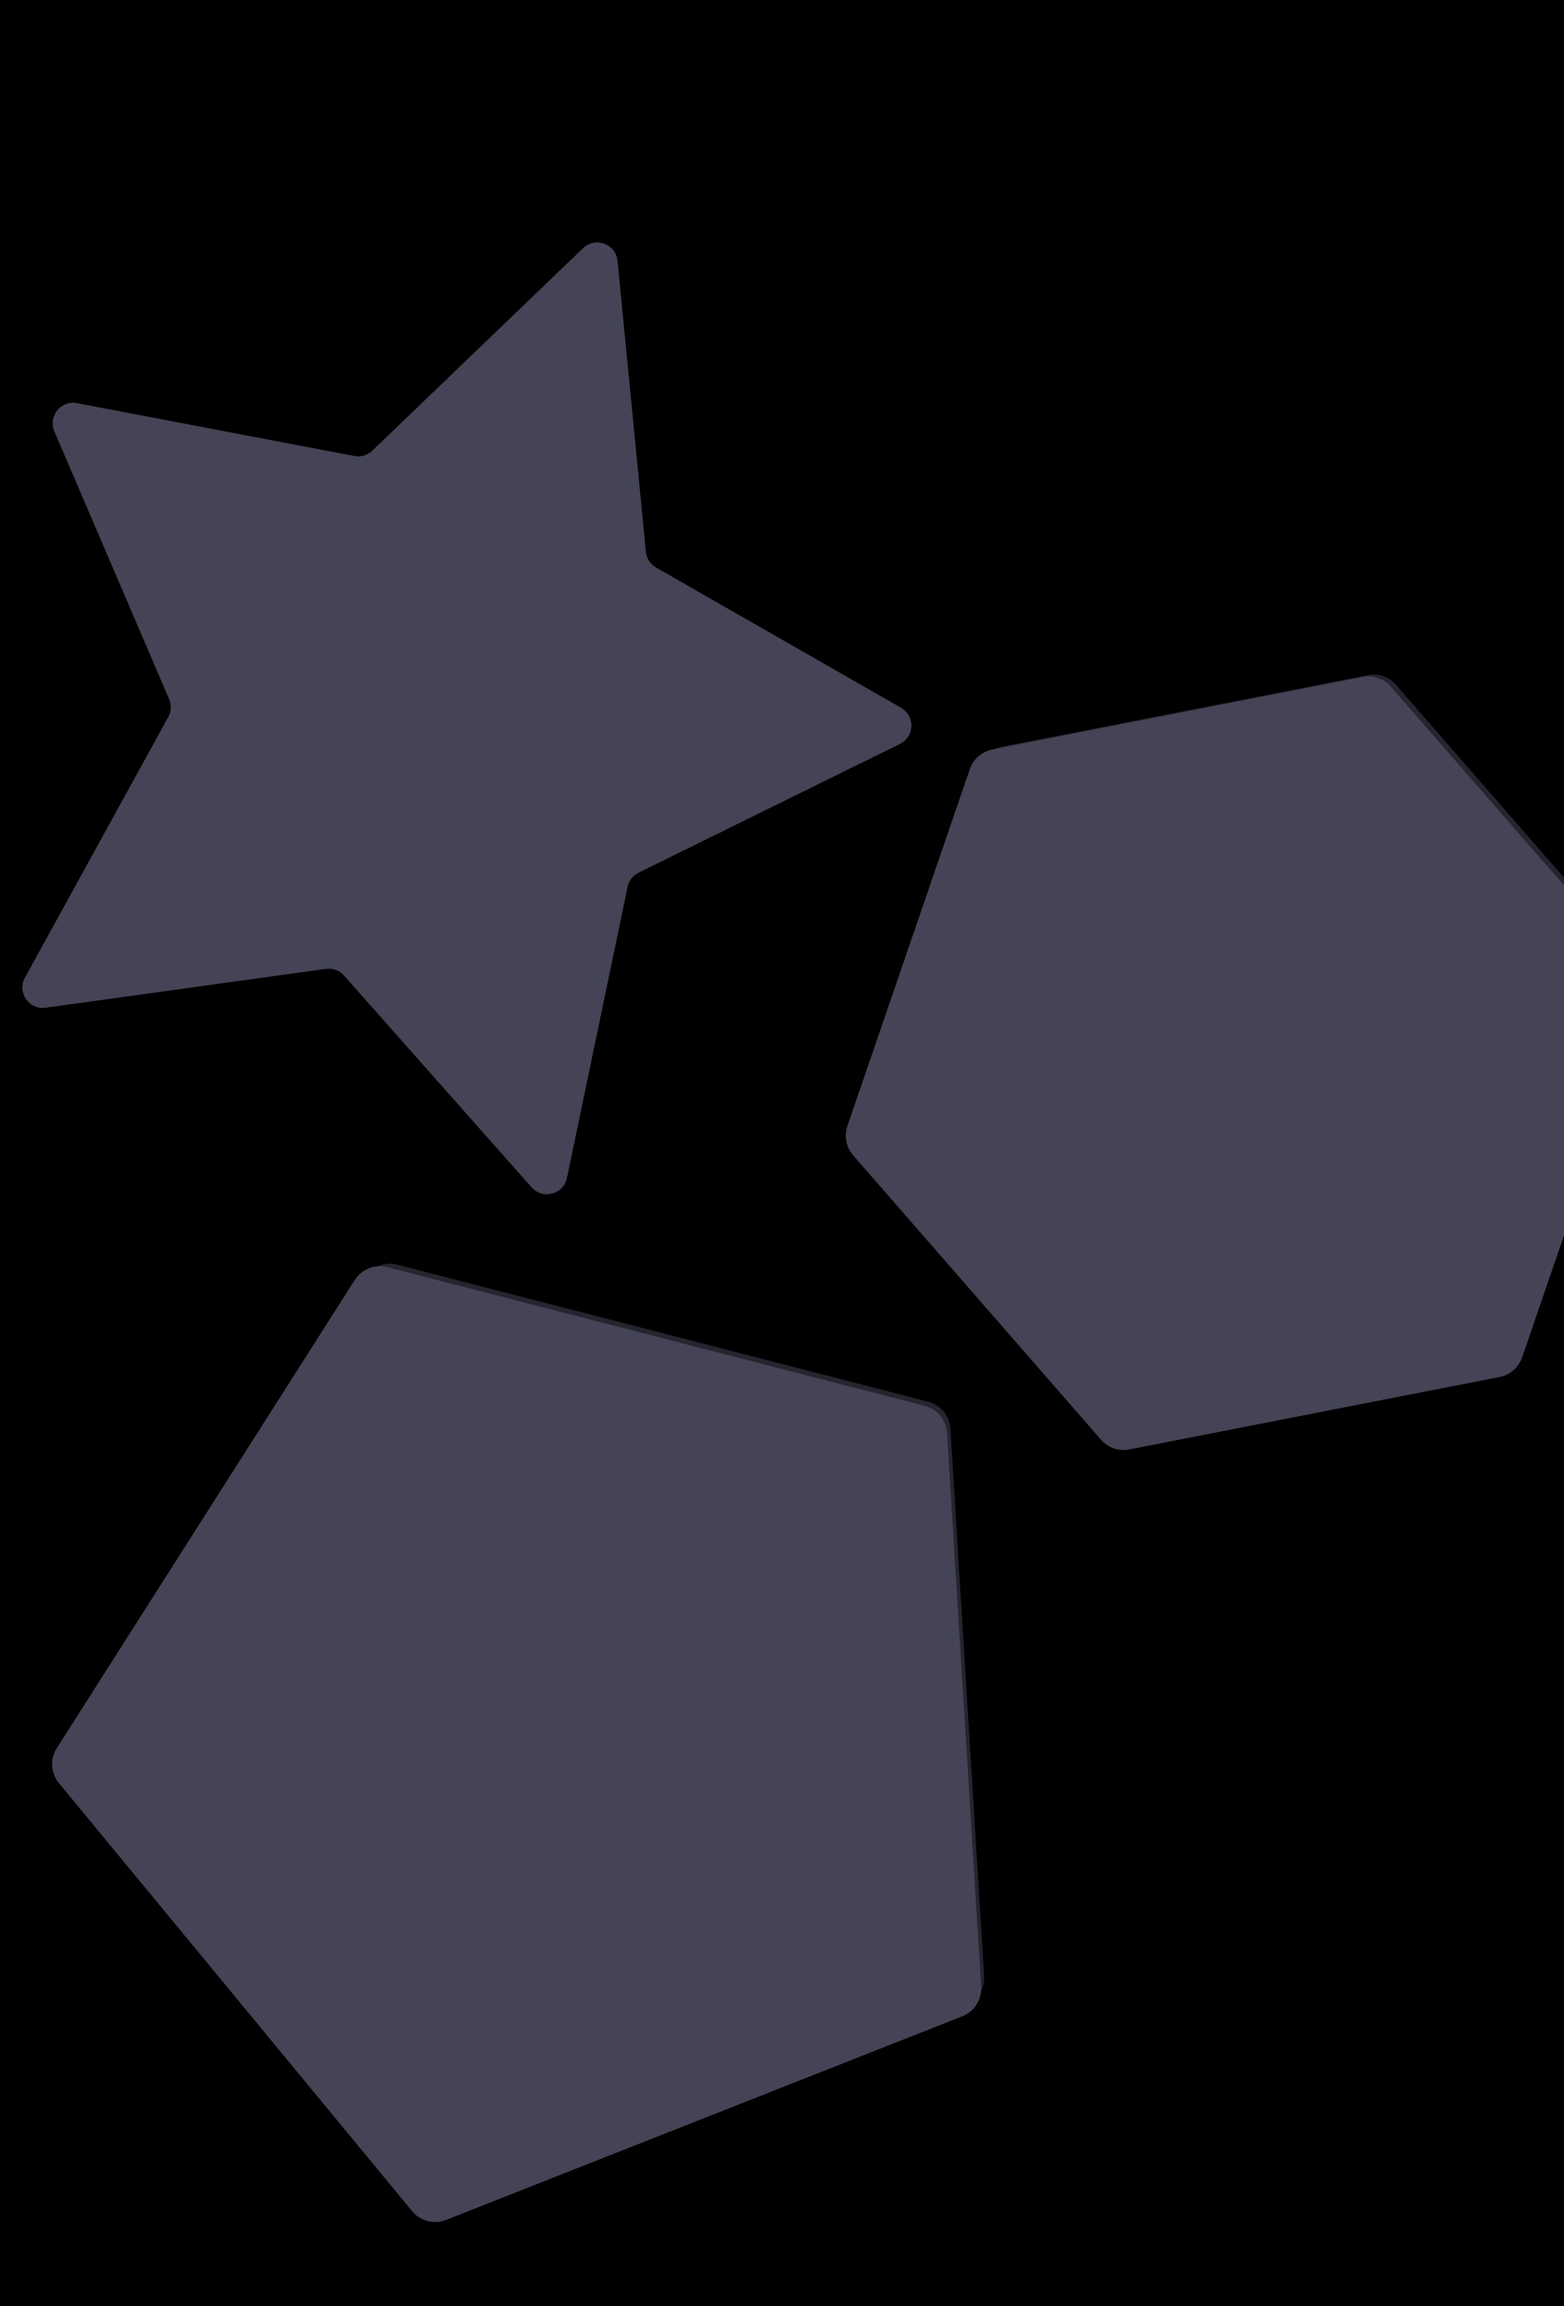
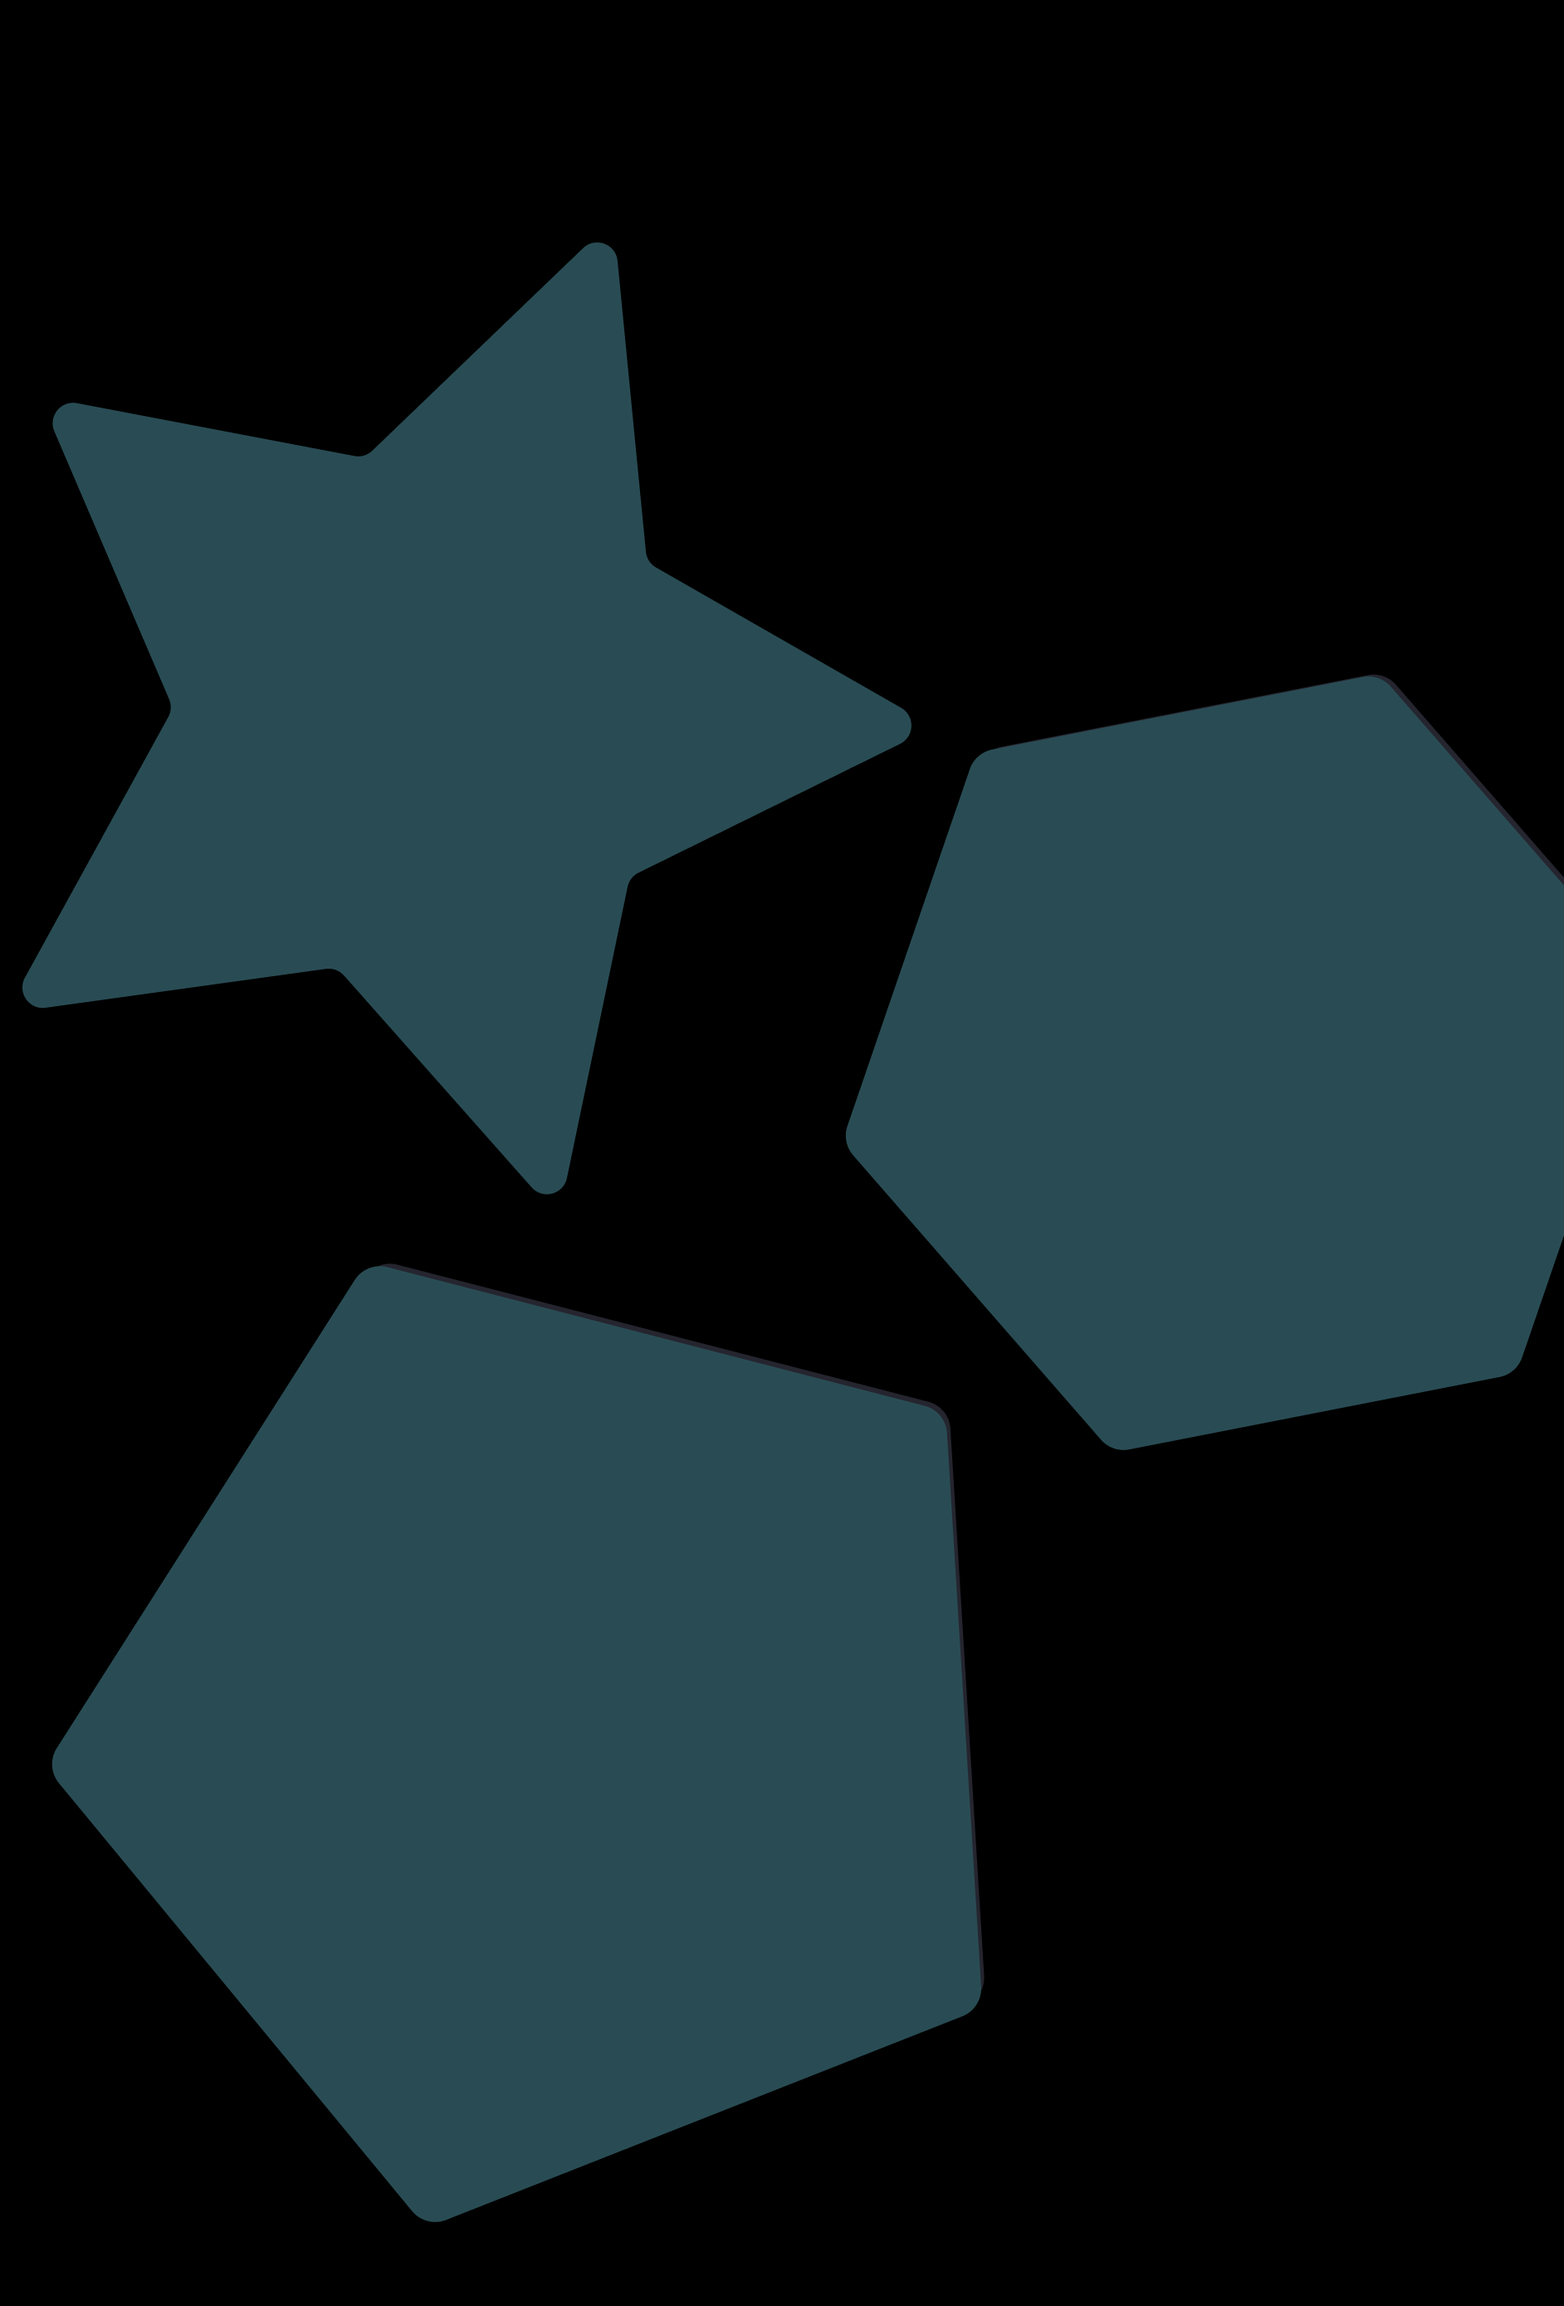
design remake

diff --git a/Routes.js b/Routes.js
@@ -15,11 +15,11 @@ export default function Routes() {
   return (
           <Tab.Navigator
           screenOptions={{            
-           tabBarActiveTintColor:"white",
-           tabBarInactiveTintColor:'#444456',
+           tabBarActiveTintColor:"#fff",
+           tabBarInactiveTintColor:'#818181',
            tabBarShowLabel:false,
-           tabBarActiveBackgroundColor:'#25252B',
-           tabBarInactiveBackgroundColor:'#25252B',
+           tabBarActiveBackgroundColor:'#0A5363',
+           tabBarInactiveBackgroundColor:'#0A5363',
            tabBarStyle:[
             {
               width: '100%',
@@ -51,7 +51,7 @@ export default function Routes() {
             }}/>
 
             <Tab.Screen 
-            name= "Postagem"
+            name= "Postagem"s
             component={Postagem}
             options={{
               headerShown:false,

diff --git a/pages/Pesquisa.js b/pages/Pesquisa.js
@@ -50,7 +50,7 @@ export default function Pesquisa (){
   return (
    <View style={Css.container}>
    
-    <View style={styles.cabecalho}>
+    <View style={styles.pesquisaCabecalho}>
       <Image source={Vector} style={Css.img} />
       <View style={styles.containerTextInput}>
         <Feather name='search' size={20} style={styles.inconTextInput}/>
@@ -127,8 +127,8 @@ export default function Pesquisa (){
 }
 
 const styles = StyleSheet.create({
-  cabecalho:{
-    backgroundColor: '#25252A',
+  pesquisaCabecalho:{
+    backgroundColor: '#0A5363',
     alignSelf:'center',
     alignItems: 'center',
     width: '100%',

diff --git a/pages/css.js b/pages/css.js
@@ -2,7 +2,7 @@ import { StyleSheet } from 'react-native';
 export default StyleSheet.create({
       
 cabecalho:{
-  backgroundColor: '#25252A',
+  backgroundColor: '#0A5363',
   width: '100%',
   height: 90,
   // alignItems: 'center',
@@ -14,8 +14,8 @@ container: {
   backgroundColor: 'black',
   },
 img:{
-  width: 35,
-  height: 37,
+  width: 40,
+  height: 40,
   top:20,
   alignSelf: 'center'
   },

diff --git a/pages/Postar/Postagem.js b/pages/Postar/Postagem.js
@@ -75,7 +75,7 @@ const styles = StyleSheet.create({
     alignSelf:'flex-end',
     justifyContent: 'flex-start',
     alignItems: 'center',
-    backgroundColor: '#25252B'
+    backgroundColor: '#0A5363'
   },
   clip: {
     marginLeft: 50,
